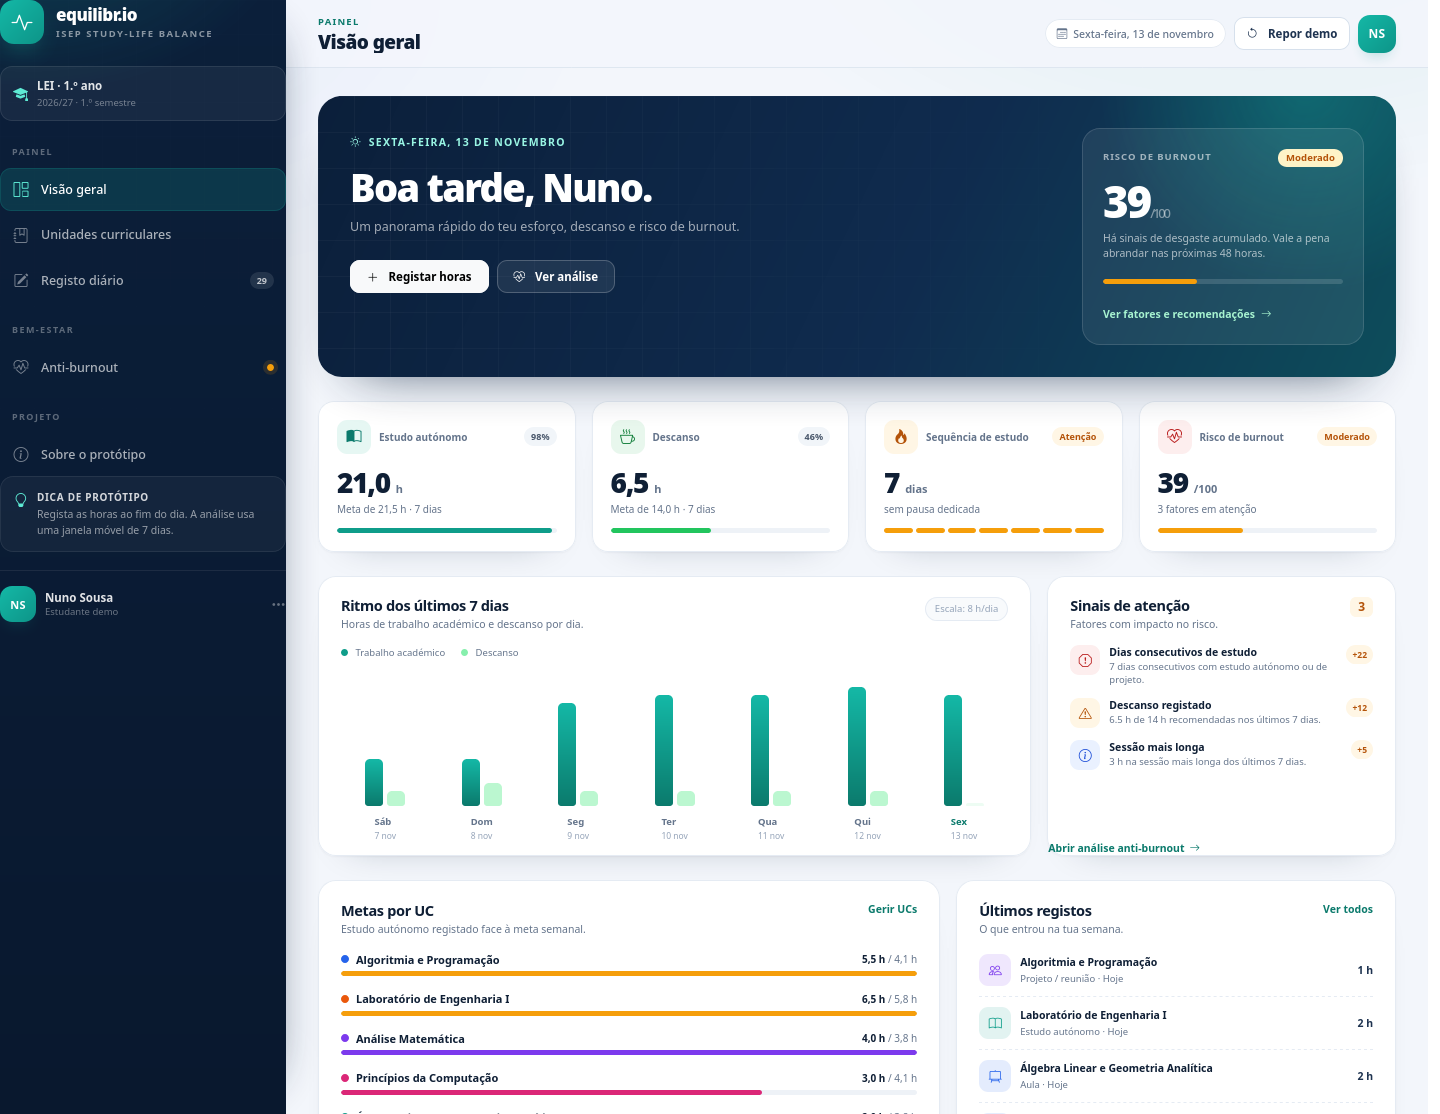
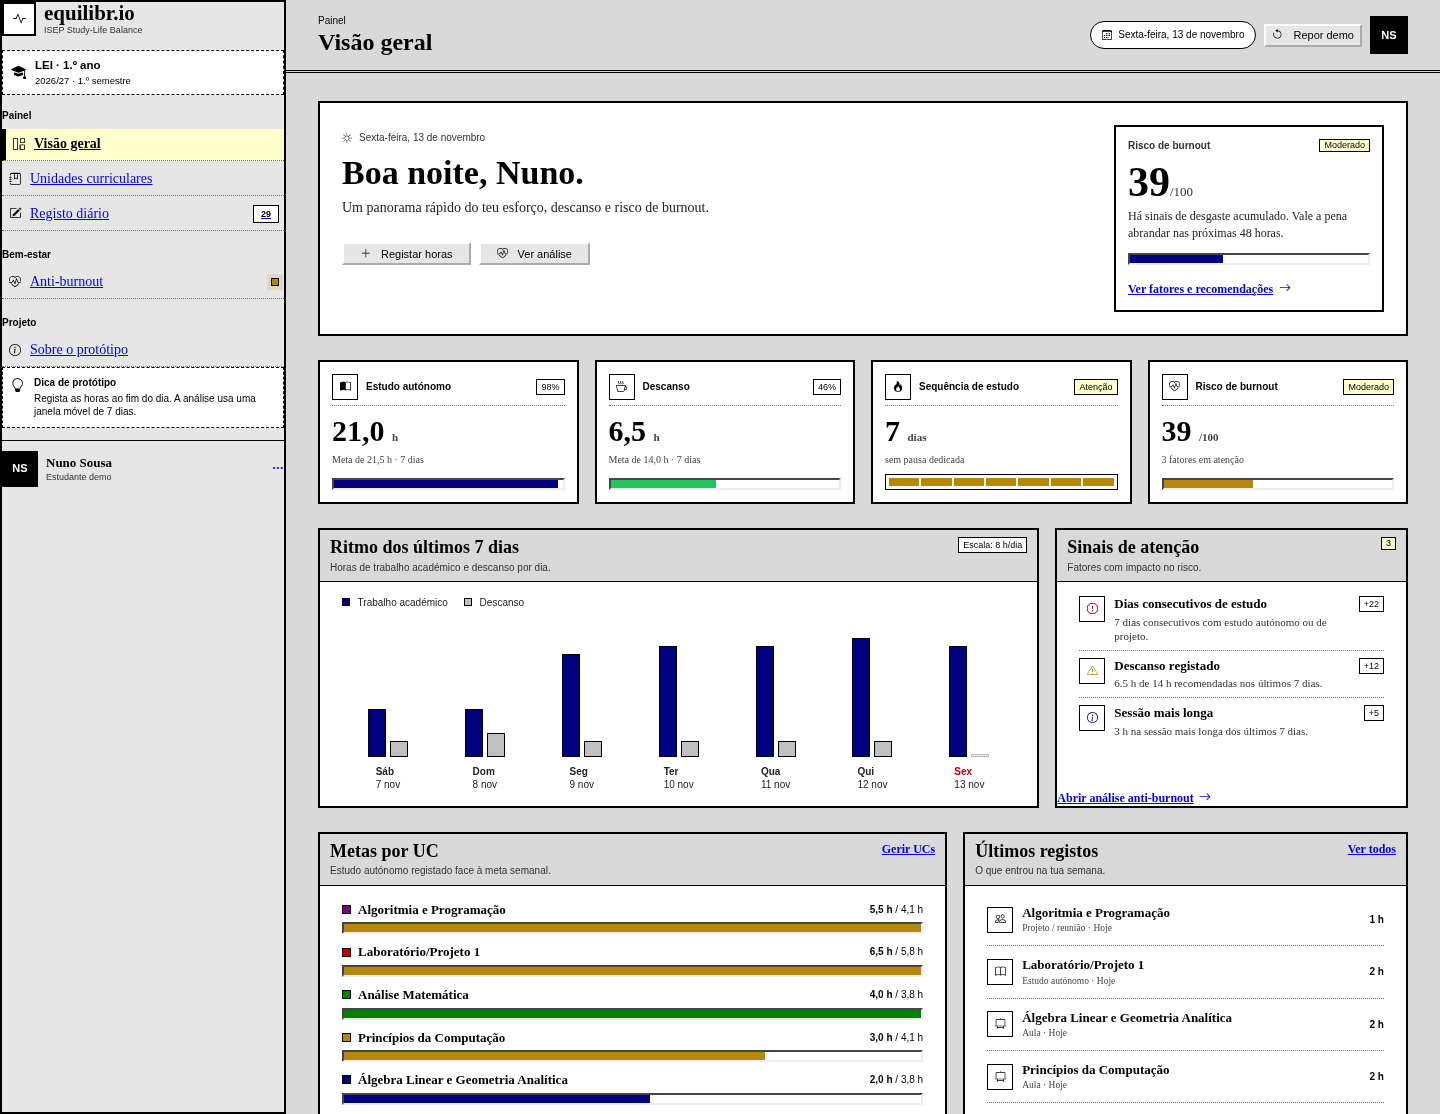
docs: atualizar screenshot e autenticação

diff --git a/README.md b/README.md
@@ -114,7 +114,7 @@ npx serve .
 
 ### Abrir diretamente
 
-Os ficheiros `index.html`, `login.html` e `app.html` também podem ser abertos diretamente no browser. Ainda assim, o servidor local é recomendado para garantir um comportamento consistente do `localStorage` entre sessões.
+Os ficheiros `index.html`, `login.html`, `register.html` e `app.html` também podem ser abertos diretamente no browser. Ainda assim, o servidor local é recomendado para garantir um comportamento consistente do `localStorage` entre sessões.
 
 ### Requisitos
 
@@ -205,6 +205,7 @@ O motor apresenta recomendações quando um fator soma pontos. A pontuação é 
 .
 ├── index.html                     # Landing page
 ├── login.html                     # Ecrã de entrada
+├── register.html                  # Criação de conta
 ├── app.html                       # Shell, vistas, modais e conteúdo estático
 ├── assets/
 │   ├── css/
@@ -214,7 +215,7 @@ O motor apresenta recomendações quando um fator soma pontos. A pontuação é 
 │   │   ├── core.js                # Regras de negócio puras e motor de risco
 │   │   ├── data.js                # UCs mock, dados demo e cenários
 │   │   ├── app.js                 # Rotas, estado, renderização e CRUD
-│   │   ├── auth.js                # Entrada com Supabase e modo demonstração
+│   │   ├── auth.js                # Login e registo com Supabase
 │   │   └── config.js              # Configuração pública gerada a partir do .env
 │   └── vendor/
 │       ├── bootstrap/             # Bootstrap 5.3.3 local
@@ -231,7 +232,7 @@ O motor apresenta recomendações quando um fator soma pontos. A pontuação é 
 │   ├── core.test.js               # 13 testes de domínio com Node.js
 │   └── integration/
 │       ├── app.spec.js            # 4 testes de integração da aplicação
-│       └── landing.spec.js        # 2 testes da landing e do login
+│       └── landing.spec.js        # 3 testes da landing, login e registo
 ├── .github/
 │   └── workflows/
 │       └── pr-tests.yml           # Testes automáticos em Pull Requests
@@ -286,10 +287,11 @@ npx playwright install chromium
 npm run test:integration
 ```
 
-Cobrem atualmente seis fluxos:
+Cobrem atualmente sete fluxos:
 
-- landing page com marca e botão de entrada;
-- ecrã de login e passagem para a demonstração local;
+- landing page com marca e entradas;
+- ecrã de login sem logs de configuração e passagem para a demonstração local;
+- ecrã de registo com validação de palavra-passe;
 - dashboard com marca e indicadores base;
 - navegação entre vistas e totais das UCs;
 - criação de um registo e persistência após recarregar;
@@ -299,7 +301,7 @@ Os testes de domínio e de integração correm automaticamente em **GitHub Actio
 
 ## Backend e autenticação
 
-O login está preparado para Supabase Auth e o esquema da base de dados já existe
+O login e o registo estão preparados para Supabase Auth e o esquema da base de dados já existe
 em [`supabase/migrations/`](supabase/migrations/). O guia completo está em
 [`docs/BACKEND.md`](docs/BACKEND.md).
 
@@ -340,7 +342,7 @@ As capturas em [`docs/screenshots/`](docs/screenshots/) mostram as cinco vistas 
 
 ## Limitações
 
-- O schema e o login Supabase estão preparados, mas a aplicação demo ainda não persiste os registos na base de dados.
+- O schema, o login e o registo com Supabase estão preparados, mas a aplicação demo ainda não persiste os registos na base de dados.
 - Os dados da demonstração ficam no browser. Limpar o armazenamento elimina o histórico local.
 - A sincronização entre dispositivos e o multiutilizador ainda não estão ligados à interface.
 - O perfil é demonstrativo e não editável na interface.

diff --git a/docs/BACKEND.md b/docs/BACKEND.md
@@ -113,7 +113,9 @@ npm run db:seed
 
 ## Estado atual da integração
 
-- A landing page e o ecrã de login já estão preparados para Supabase Auth.
+- A landing page, o login e o registo já estão preparados para Supabase Auth.
+- O registo usa `signUp`, guarda o nome em `user_metadata.full_name` e redireciona a confirmação para `login.html`.
+- Com confirmação de email ativa, o utilizador tem de confirmar a conta antes de entrar. Configura o SMTP e as URLs permitidas no dashboard do Supabase.
 - Sem `SUPABASE_URL` e `SUPABASE_ANON_KEY`, o login mostra um aviso e a aplicação
   continua disponível em modo de demonstração local.
 - A aplicação (`app.html`) ainda usa `localStorage` para os dados de
